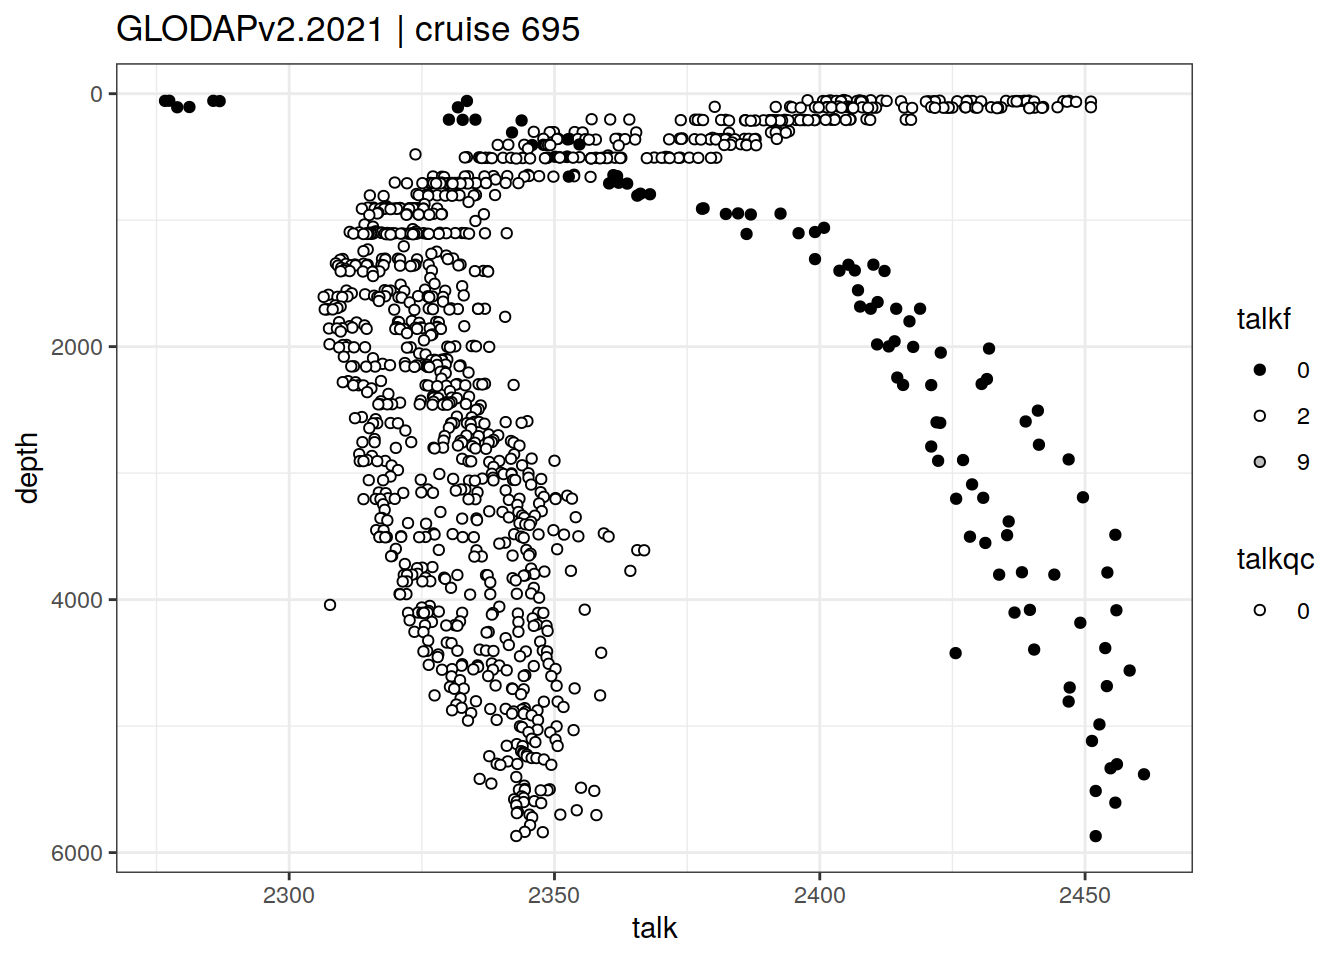
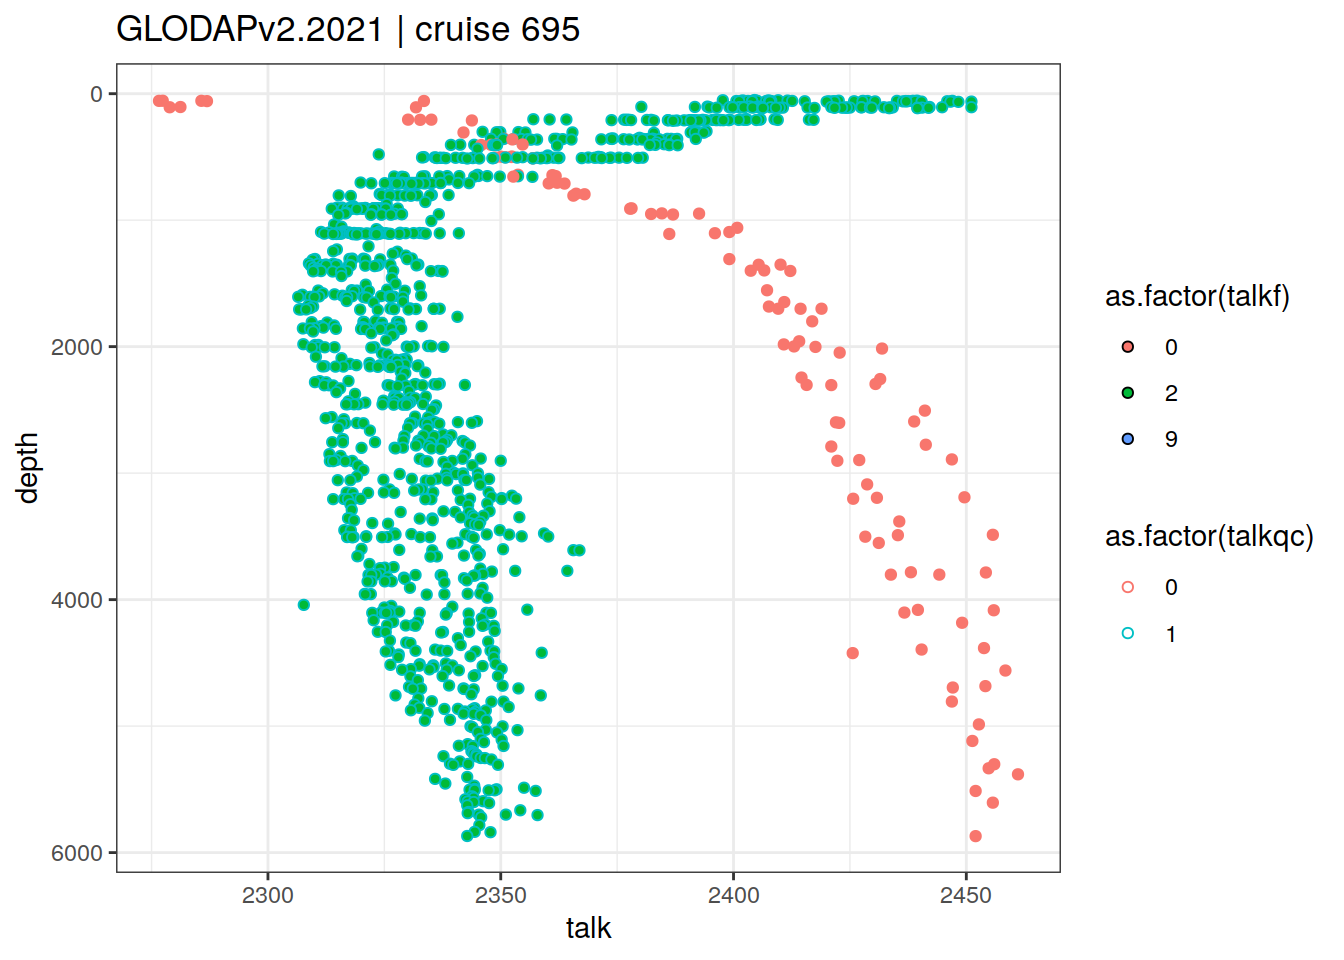
Build site.

diff --git a/docs/eMLR_GLODAPv2_2020_subsetting.html b/docs/eMLR_GLODAPv2_2020_subsetting.html
@@ -574,16 +574,16 @@ This reproducible <a href="http://rmarkdown.rstudio.com">R Markdown</a> analysis
 <div class="panel panel-default">
 <div class="panel-heading">
 <p class="panel-title">
-<a data-toggle="collapse" data-parent="#workflowr-checks" href="#strongRepositoryversionstrongahrefhttpsgithubcomjensdanielmuelleremlrobsvXXXtree1adf14a2e9f5862bae47904082f1b97aa0c8ca15targetblank1adf14aa"> <span class="glyphicon glyphicon-ok text-success" aria-hidden="true"></span> <strong>Repository version:</strong> <a href="https://github.com/jens-daniel-mueller/emlr_obs_v_XXX/tree/1adf14a2e9f5862bae47904082f1b97aa0c8ca15" target="_blank">1adf14a</a> </a>
+<a data-toggle="collapse" data-parent="#workflowr-checks" href="#strongRepositoryversionstrongahrefhttpsgithubcomjensdanielmuelleremlrobsvXXXtreee15662dee95f0e564495a0d445787e6dcefe5f62targetblanke15662da"> <span class="glyphicon glyphicon-ok text-success" aria-hidden="true"></span> <strong>Repository version:</strong> <a href="https://github.com/jens-daniel-mueller/emlr_obs_v_XXX/tree/e15662dee95f0e564495a0d445787e6dcefe5f62" target="_blank">e15662d</a> </a>
 </p>
 </div>
[2 lines of base64/hex data omitted]
 <div class="panel-body">
 <p>
 Great! You are using Git for version control. Tracking code development and connecting the code version to the results is critical for reproducibility.
 </p>
 <p>
-The results in this page were generated with repository version <a href="https://github.com/jens-daniel-mueller/emlr_obs_v_XXX/tree/1adf14a2e9f5862bae47904082f1b97aa0c8ca15" target="_blank">1adf14a</a>. See the <em>Past versions</em> tab to see a history of the changes made to the R Markdown and HTML files.
+The results in this page were generated with repository version <a href="https://github.com/jens-daniel-mueller/emlr_obs_v_XXX/tree/e15662dee95f0e564495a0d445787e6dcefe5f62" target="_blank">e15662d</a>. See the <em>Past versions</em> tab to see a history of the changes made to the R Markdown and HTML files.
 </p>
 <p>
 Note that you need to be careful to ensure that all relevant files for the analysis have been committed to Git prior to generating the results (you can use <code>wflow_publish</code> or <code>wflow_git_commit</code>). workflowr only checks the R Markdown file, but you know if there are other scripts or data files that it depends on. Below is the status of the Git repository when the results were generated:
@@ -636,6 +636,40 @@ Message
 </tr>
 </thead>
 <tbody>
+<tr>
+<td>
+Rmd
+</td>
+<td>
+<a href="https://github.com/jens-daniel-mueller/emlr_obs_v_XXX/blob/e15662dee95f0e564495a0d445787e6dcefe5f62/analysis/eMLR_GLODAPv2_2020_subsetting.Rmd" target="_blank">e15662d</a>
+</td>
+<td>
+jens-daniel-mueller
+</td>
+<td>
+2021-10-20
+</td>
+<td>
+corrected tco2 and talk qc flags in preprocessing
+</td>
+</tr>
+<tr>
+<td>
+html
+</td>
+<td>
+<a href="https://rawcdn.githack.com/jens-daniel-mueller/emlr_obs_v_XXX/558c54af1f4dba51d7c60c20b82b037df3c61035/docs/eMLR_GLODAPv2_2020_subsetting.html" target="_blank">558c54a</a>
+</td>
+<td>
+jens-daniel-mueller
+</td>
+<td>
+2021-10-20
+</td>
+<td>
+Build site.
+</td>
+</tr>
 <tr>
 <td>
 html
@@ -5629,8 +5663,8 @@ jens-daniel-mueller
              col = as.factor(talkqc))) +
   geom_point(shape = 21) +
   scale_y_reverse() +
-  scale_color_manual(values = &quot;black&quot;, name = &quot;talkqc&quot;) +
-  scale_fill_manual(values = c(&quot;black&quot;, &quot;white&quot;, &quot;grey&quot;), name = &quot;talkf&quot;) +
+  # scale_color_manual(values = &quot;black&quot;, name = &quot;talkqc&quot;) +
+  # scale_fill_manual(values = c(&quot;black&quot;, &quot;white&quot;, &quot;grey&quot;), name = &quot;talkf&quot;) +
   labs(title = &quot;GLODAPv2.2021 | cruise 695&quot;)</code></pre>
 <p><img src="figure/eMLR_GLODAPv2_2020_subsetting.Rmd/combine_GLODAP_CANYON_B-2.png" width="672" style="display: block; margin: auto;" /></p>
 <p>
@@ -5655,6 +5689,17 @@ Date
 </tr>
 </thead>
 <tbody>
+<tr>
+<td>
+<a href="https://github.com/jens-daniel-mueller/emlr_obs_v_XXX/blob/558c54af1f4dba51d7c60c20b82b037df3c61035/docs/figure/eMLR_GLODAPv2_2020_subsetting.Rmd/combine_GLODAP_CANYON_B-2.png" target="_blank">558c54a</a>
+</td>
+<td>
+jens-daniel-mueller
+</td>
+<td>
+2021-10-20
+</td>
+</tr>
 <tr>
 <td>
 <a href="https://github.com/jens-daniel-mueller/emlr_obs_v_XXX/blob/1adf14a2e9f5862bae47904082f1b97aa0c8ca15/docs/figure/eMLR_GLODAPv2_2020_subsetting.Rmd/combine_GLODAP_CANYON_B-2.png" target="_blank">1adf14a</a>
@@ -15906,6 +15951,17 @@ Date
 <tbody>
 <tr>
 <td>
+<a href="https://github.com/jens-daniel-mueller/emlr_obs_v_XXX/blob/558c54af1f4dba51d7c60c20b82b037df3c61035/docs/figure/eMLR_GLODAPv2_2020_subsetting.Rmd/tco2_qc_subset-1.png" target="_blank">558c54a</a>
+</td>
+<td>
+jens-daniel-mueller
+</td>
+<td>
+2021-10-20
+</td>
+</tr>
+<tr>
+<td>
 <a href="https://github.com/jens-daniel-mueller/emlr_obs_v_XXX/blob/dc0723b4a10adc25d1fc18eb1017b8311f2d9ae3/docs/figure/eMLR_GLODAPv2_2020_subsetting.Rmd/tco2_qc_subset-1.png" target="_blank">dc0723b</a>
 </td>
 <td>
@@ -18466,6 +18522,17 @@ Date
 </tr>
 </thead>
 <tbody>
+<tr>
+<td>
+<a href="https://github.com/jens-daniel-mueller/emlr_obs_v_XXX/blob/558c54af1f4dba51d7c60c20b82b037df3c61035/docs/figure/eMLR_GLODAPv2_2020_subsetting.Rmd/talk_qc_subset-1.png" target="_blank">558c54a</a>
+</td>
+<td>
+jens-daniel-mueller
+</td>
+<td>
+2021-10-20
+</td>
+</tr>
 <tr>
 <td>
 <a href="https://github.com/jens-daniel-mueller/emlr_obs_v_XXX/blob/dc0723b4a10adc25d1fc18eb1017b8311f2d9ae3/docs/figure/eMLR_GLODAPv2_2020_subsetting.Rmd/talk_qc_subset-1.png" target="_blank">dc0723b</a>
